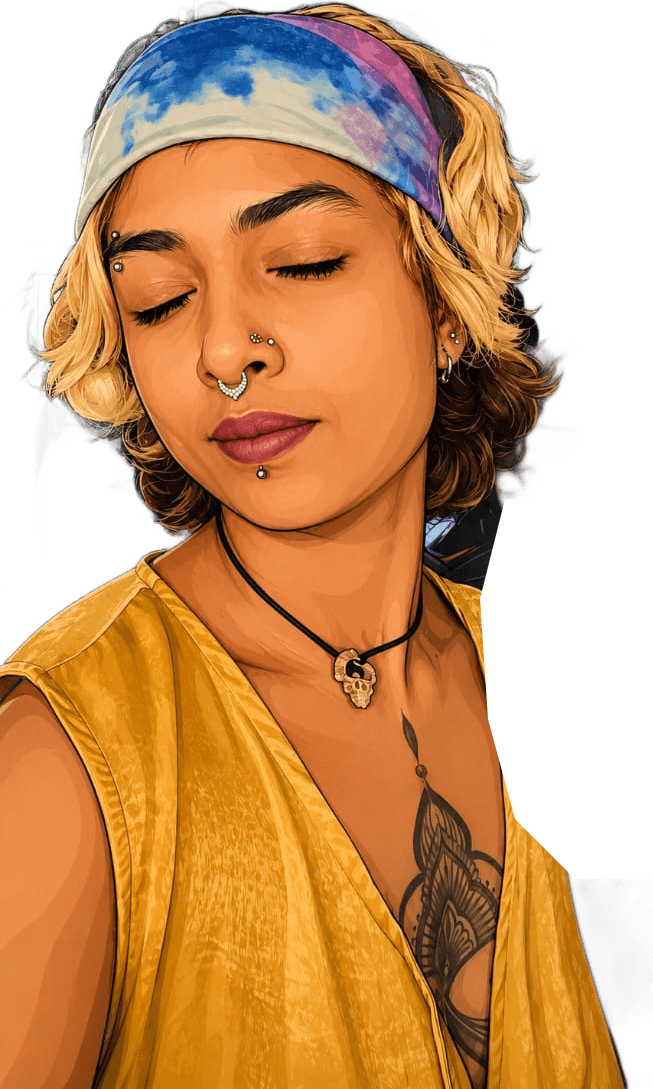
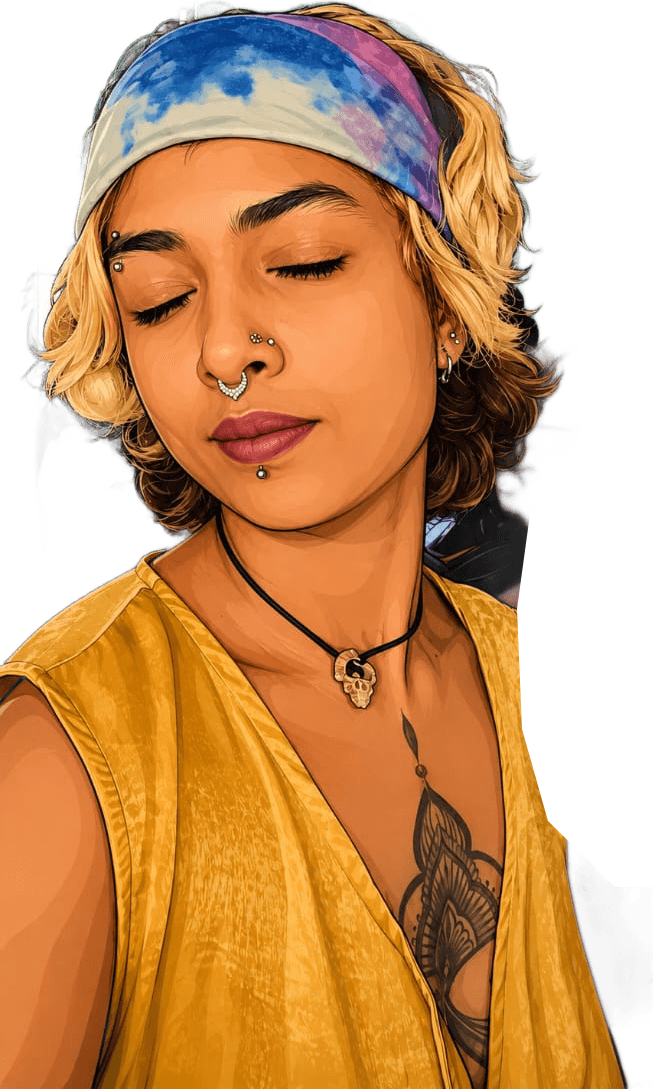
Hero cutout v3: nothing of her clipped — bag-only erase, softer bottom fade

Changed region(s): [[0.7351, 0.4371, 0.8882, 0.8118]]

diff --git a/src/app/(frontend)/page.tsx b/src/app/(frontend)/page.tsx
@@ -119,7 +119,7 @@ export default async function HomePage() {
               back={<PaintBurst className="absolute -inset-x-14 -inset-y-8" />}
               className="relative mx-auto aspect-[653/1089] w-full max-w-xs lg:max-w-sm"
               front={
-                <div className="relative h-full w-full [mask-image:linear-gradient(to_bottom,black_72%,transparent_99%)]">
+                <div className="relative h-full w-full [mask-image:linear-gradient(to_bottom,black_86%,transparent_100%)]">
                   <Image
                     alt="The Ouch founder — eyebrow, septum, nostril and labret piercings, tie-dye headband"
                     className="object-contain"
